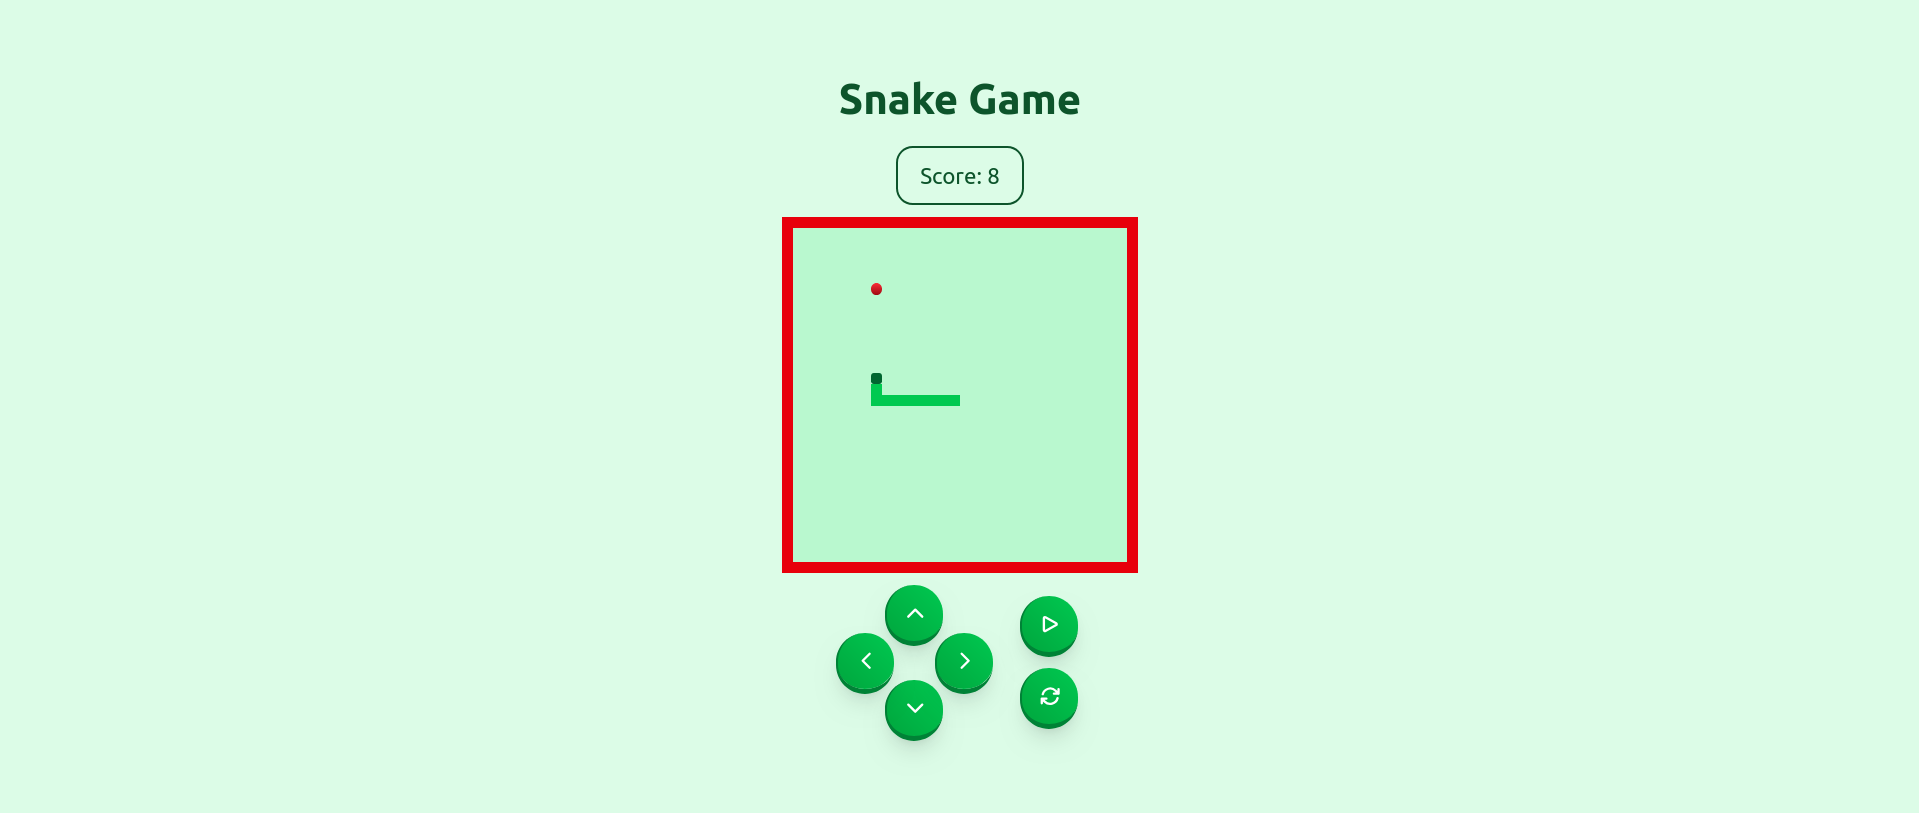
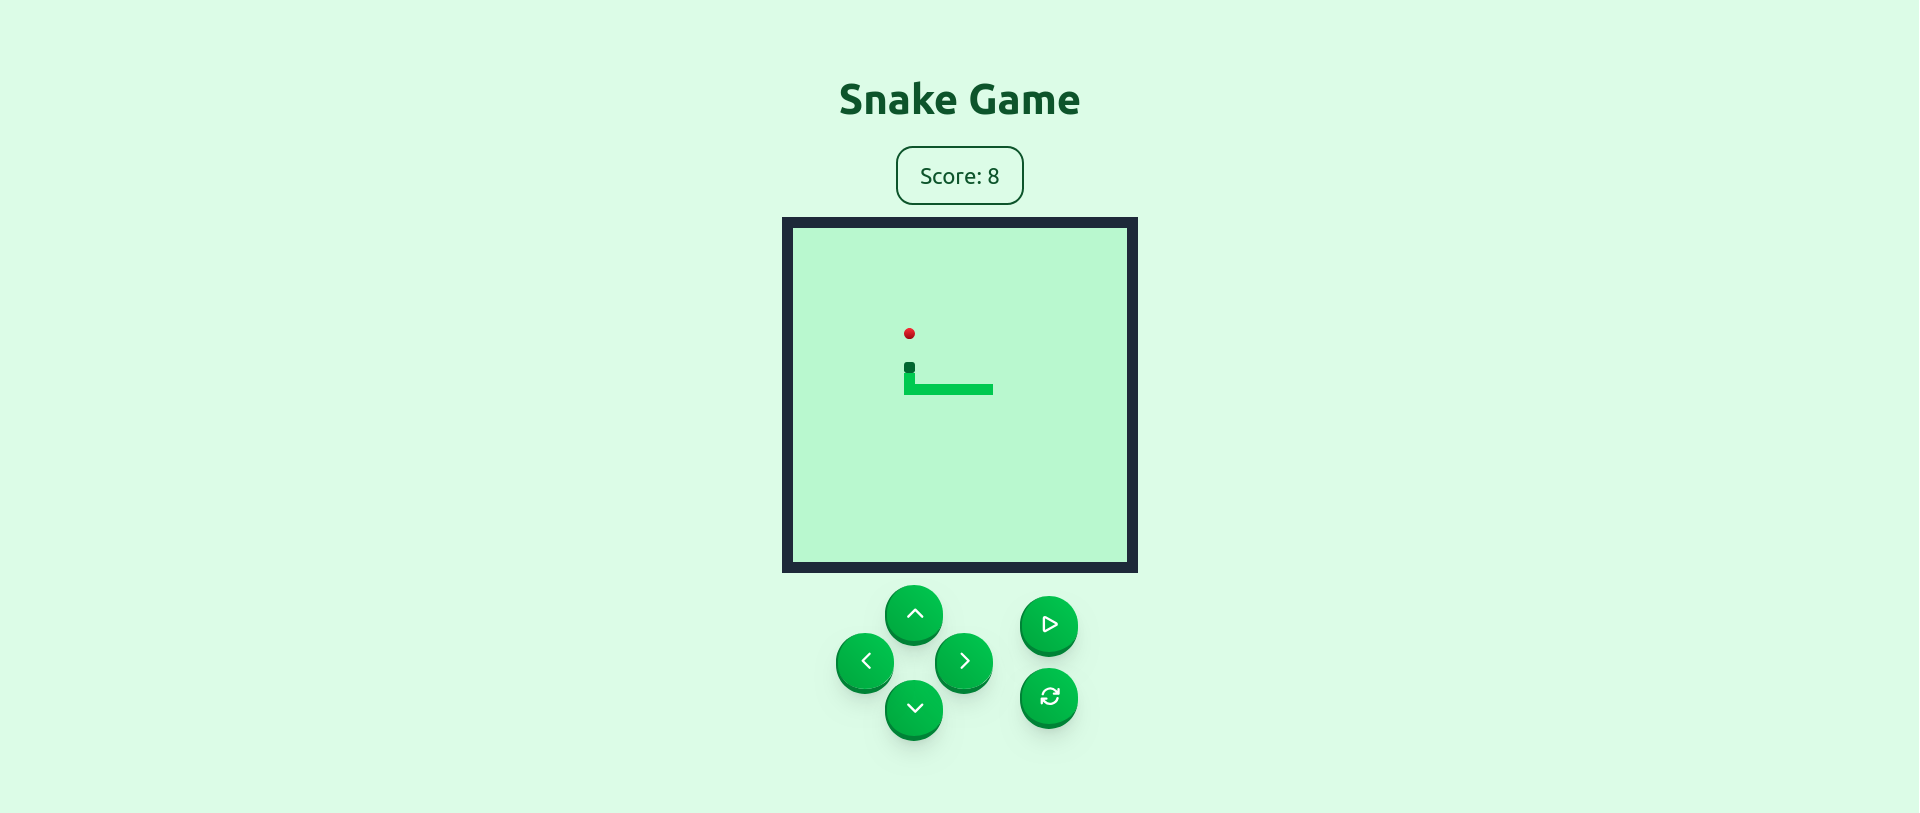
create snake game

Changed region(s): [[0.4062, 0.246, 0.5938, 0.7073]]

diff --git a/snake-game/src/App.jsx b/snake-game/src/App.jsx
@@ -168,7 +168,7 @@ function App() {
         {/* Board */}
         <div className="relative text-center">
           <div
-            className={`bg-green-200 border-8 border-red-600 ${
+            className={`bg-green-200 border-8 border-gray-800 ${
               gameOver && "before:z-10 before:bg-[rgba(0,0,0,0.5)] before:absolute before:inset-0"
             }`}
           >
